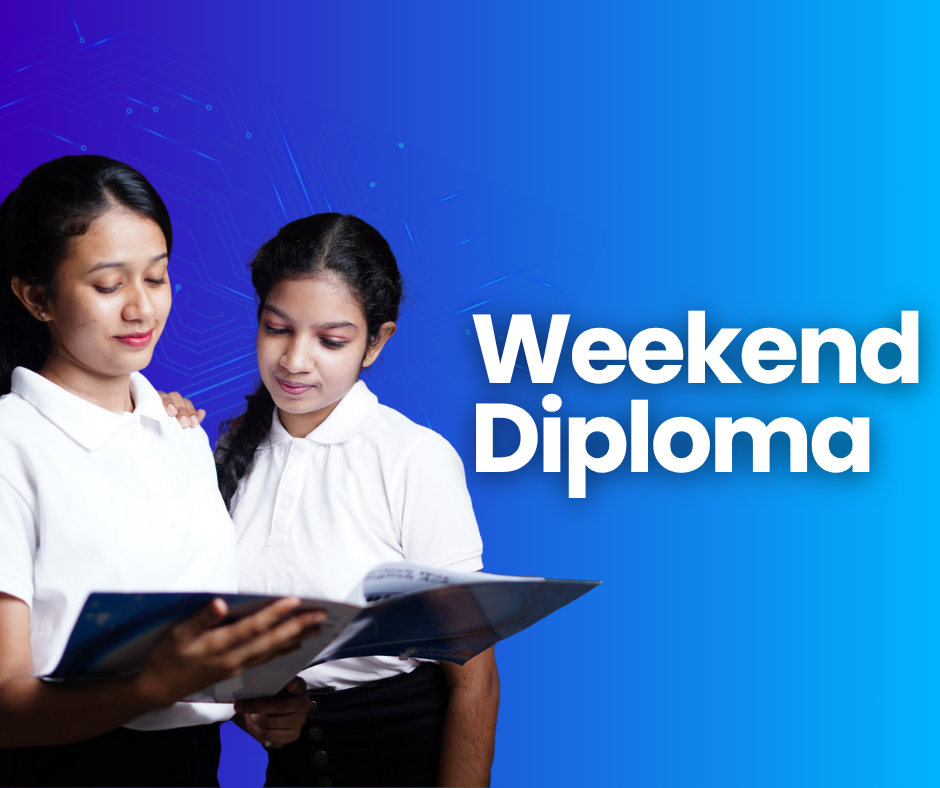
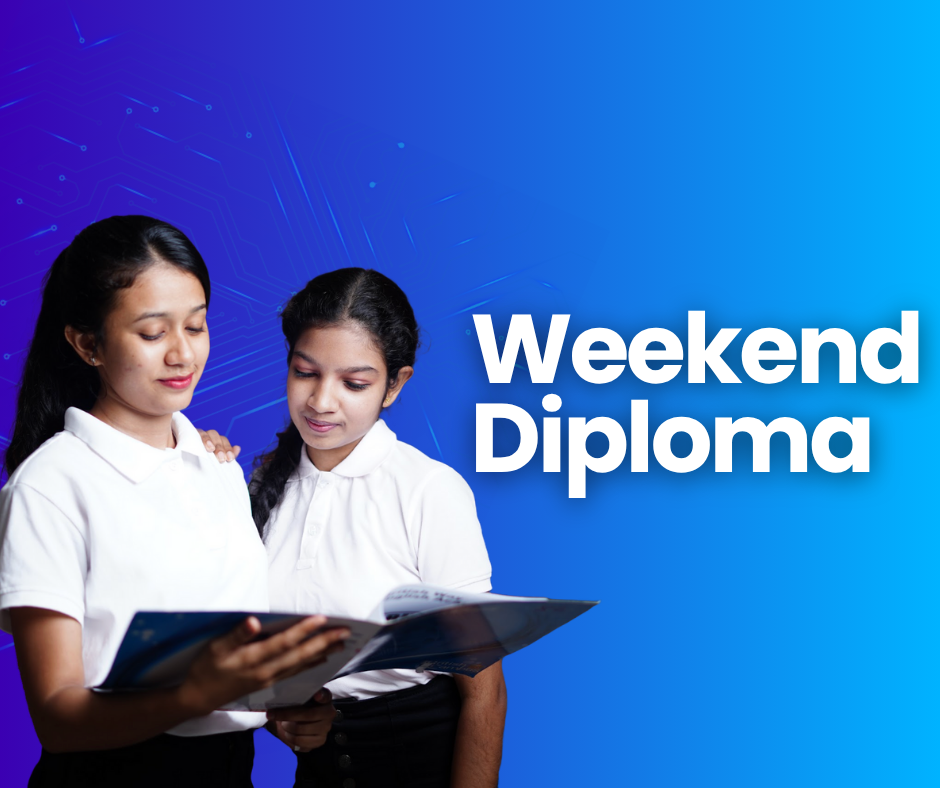
nov 19 update

Changed region(s): [[0.0, 0.1827, 0.6479, 1.0]]

diff --git a/src/components/CoursesPage.jsx b/src/components/CoursesPage.jsx
@@ -65,7 +65,7 @@ const CoursesPage = () => {
       description: "Combined program offering both English language skills and IT fundamentals. Perfect for students looking to enhance their career prospects in technology.",
       instructor: "View More...",
       category: "Full Time Diplomas",
-      image: "/images/IT+English.jpg"
+      image: "/images/6.png"
     },
     {
       id: "kids-class",
@@ -73,7 +73,7 @@ const CoursesPage = () => {
       description: "Fun and engaging English classes designed specifically for children. Interactive learning methods that make English enjoyable for young learners.",
       instructor: "View More...",
       category: "Kids Class",
-      image: "/images/Kids Class.jpg"
+      image: "/images/8.png"
     },
     {
       id: "night-class",
@@ -81,7 +81,7 @@ const CoursesPage = () => {
       description: "Evening English classes for working adults and students. Flexible timing that fits your busy schedule while maintaining quality education.",
       instructor: "View More...",
       category: "Part Time Diplomas",
-      image: "/images/course card.jpg"
+      image: "/images/7.png"
     }
   ];
 

diff --git a/src/components/CourseDetailPage.jsx b/src/components/CourseDetailPage.jsx
@@ -315,7 +315,7 @@ const courseData = {
   "it-english": {
     title: "IT + English Course",
     subtitle: "Combined Skills Diploma",
-    image: "/images/IT+English.jpg",
+    image: "/images/6.png",
     courseDuration: "4 Months",
     minimumAge: "Over 16",
     courseHours: "400 hours",
@@ -366,7 +366,7 @@ const courseData = {
   "kids-class": {
     title: "Kids Class",
     subtitle: "Young Learners Program",
-    image: "/images/Kids Class.jpg",
+    image: "/images/8.png",
     courseDuration: "3 Months",
     minimumAge: "Ages 8-15",
     courseHours: "120 hours",
